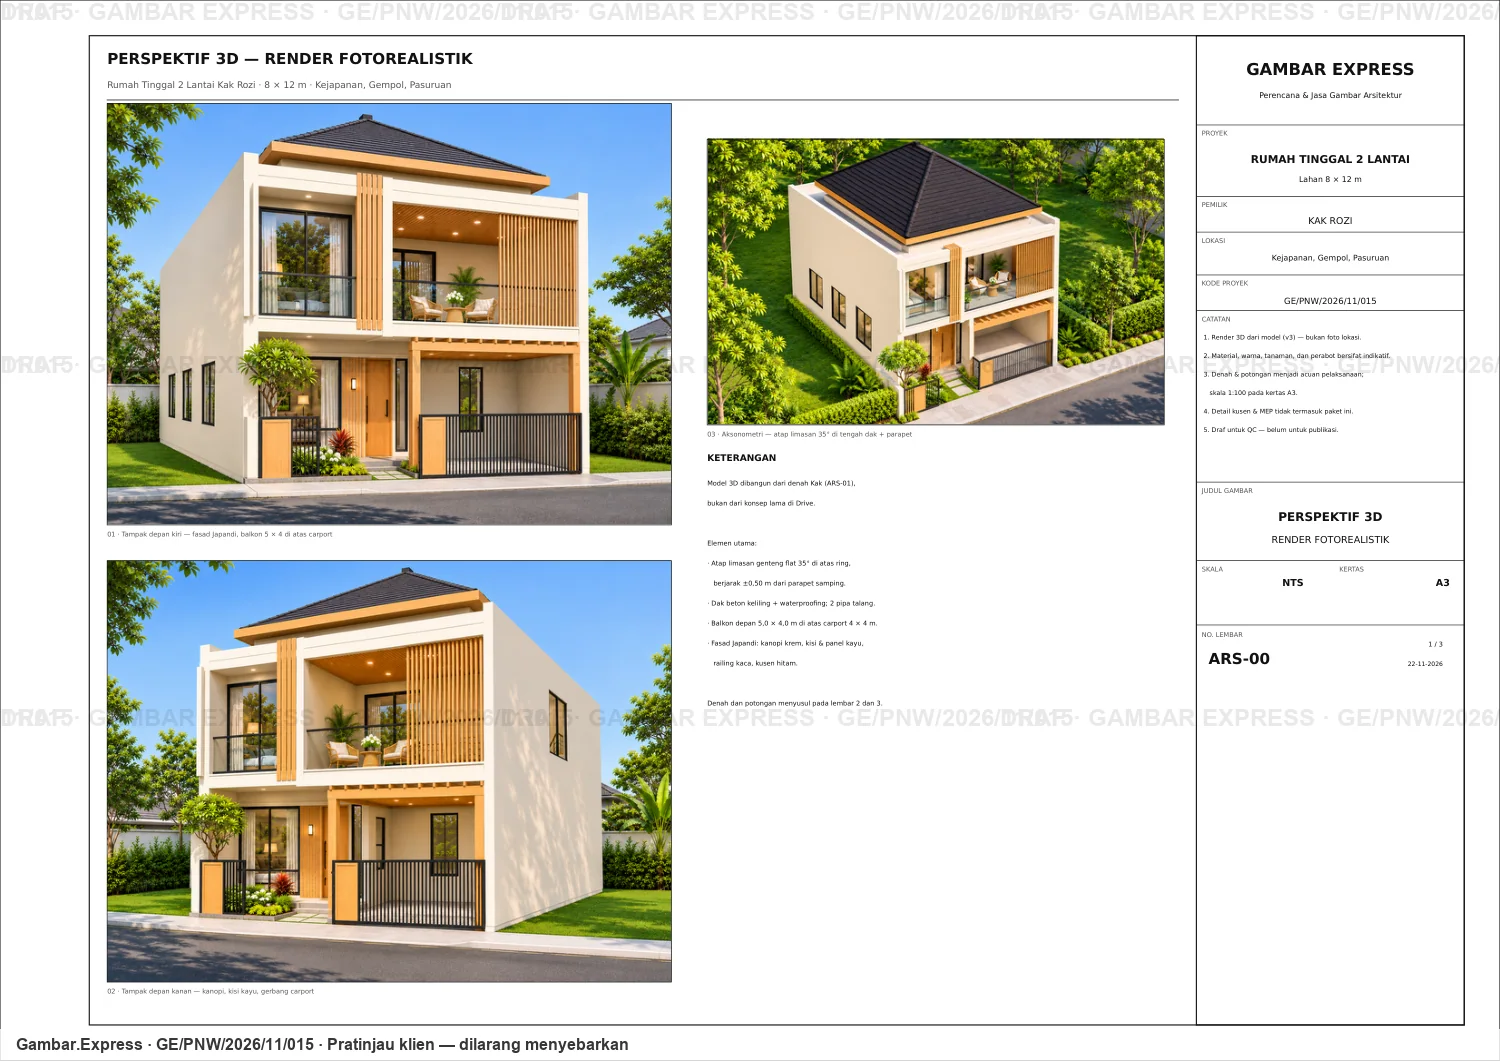
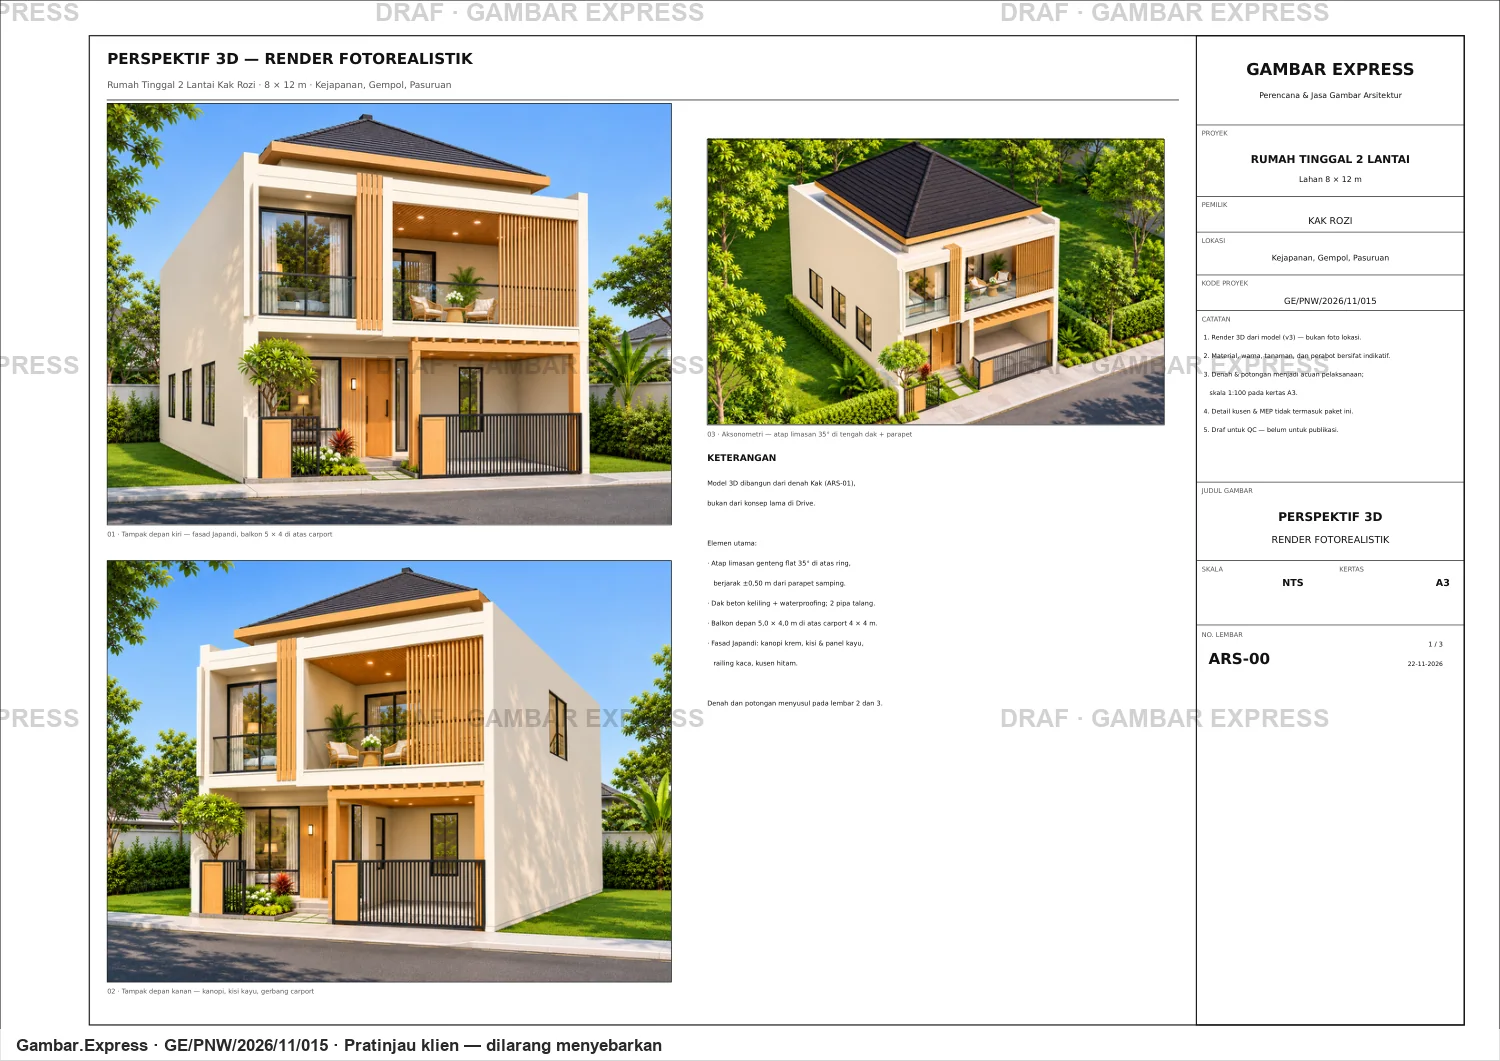
Portal Rozi: watermark diperjelas, nilai RAB disamarkan

diff --git a/kakrozi/index.html b/kakrozi/index.html
@@ -70,7 +70,7 @@
 <div id="blackout"><div><strong>Pratinjau disamarkan</strong>
 Kembali ke jendela ini untuk melanjutkan. Tangkapan layar dan pengunduhan tidak diizinkan.</div></div>
 
-<script>window.PORTAL = {"brand": "Ruang tinjau", "owner": "Kak Rozi", "project": "Rumah Rozi 8×12", "subtitle": "Rumah tinggal 2 lantai · 8 × 12 m · Kejapanan, Gempol, Pasuruan", "code": "GE/PNW/2026/11/015", "date": "23 November 2026", "status": "pratinjau klien · draf", "watermark": "DRAF · GAMBAR EXPRESS · GE/PNW/2026/11/015", "groups": [{"title": "Visual 3D", "items": [{"code": "VIS-01", "title": "Render fotorealistik — tampak depan kiri", "img": "pages/vis_01.webp", "note": "render v3", "w": 1448, "h": 1086}, {"code": "VIS-02", "title": "Render fotorealistik — tampak depan kanan", "img": "pages/vis_02.webp", "note": "render v3", "w": 1448, "h": 1086}, {"code": "VIS-03", "title": "Render fotorealistik — aksonometri", "img": "pages/vis_03.webp", "note": "render v3", "w": 1500, "h": 939}]}, {"title": "Gambar kerja", "items": [{"code": "ars-01", "title": "Perspektif 3D — render fotorealistik", "img": "pages/ars_01.webp", "note": "draf", "w": 1500, "h": 1061}, {"code": "ars-02", "title": "Denah Lantai 1 & 2", "img": "pages/ars_02.webp", "note": "draf", "w": 1500, "h": 1061}, {"code": "ars-03", "title": "Potongan A-A & B-B", "img": "pages/ars_03.webp", "note": "draf", "w": 1500, "h": 1061}]}, {"title": "RAB & kuantitas", "items": [{"code": "rab-01", "title": "Rekap RAB & catatan", "img": "pages/rab_01.webp", "note": "draf", "w": 1500, "h": 2122}]}, {"title": "Laporan", "items": [{"code": "str-01", "title": "GE-STR-RPT-01_Laporan_Struktur_Rozi_Rev1 — halaman 1", "img": "pages/str_01.webp", "note": "draf", "w": 1500, "h": 2123}, {"code": "str-02", "title": "GE-STR-RPT-01_Laporan_Struktur_Rozi_Rev1 — halaman 2", "img": "pages/str_02.webp", "note": "draf", "w": 1500, "h": 2123}, {"code": "str-03", "title": "GE-STR-RPT-01_Laporan_Struktur_Rozi_Rev1 — halaman 3", "img": "pages/str_03.webp", "note": "draf", "w": 1500, "h": 2123}, {"code": "str-04", "title": "GE-STR-RPT-01_Laporan_Struktur_Rozi_Rev1 — halaman 4", "img": "pages/str_04.webp", "note": "draf", "w": 1500, "h": 2123}, {"code": "str-05", "title": "GE-STR-RPT-01_Laporan_Struktur_Rozi_Rev1 — halaman 5", "img": "pages/str_05.webp", "note": "draf", "w": 1500, "h": 2123}, {"code": "str-06", "title": "GE-STR-RPT-01_Laporan_Struktur_Rozi_Rev1 — halaman 6", "img": "pages/str_06.webp", "note": "draf", "w": 1500, "h": 2123}, {"code": "str-07", "title": "GE-STR-RPT-01_Laporan_Struktur_Rozi_Rev1 — halaman 7", "img": "pages/str_07.webp", "note": "draf", "w": 1500, "h": 2123}, {"code": "str-08", "title": "GE-STR-RPT-01_Laporan_Struktur_Rozi_Rev1 — halaman 8", "img": "pages/str_08.webp", "note": "draf", "w": 1500, "h": 2123}, {"code": "str-09", "title": "GE-STR-RPT-01_Laporan_Struktur_Rozi_Rev1 — halaman 9", "img": "pages/str_09.webp", "note": "draf", "w": 1500, "h": 2123}, {"code": "str-10", "title": "GE-STR-RPT-01_Laporan_Struktur_Rozi_Rev1 — halaman 10", "img": "pages/str_10.webp", "note": "draf", "w": 1500, "h": 2123}, {"code": "str-11", "title": "GE-STR-RPT-01_Laporan_Struktur_Rozi_Rev1 — halaman 11", "img": "pages/str_11.webp", "note": "draf", "w": 1500, "h": 2123}, {"code": "str-12", "title": "GE-STR-RPT-01_Laporan_Struktur_Rozi_Rev1 — halaman 12", "img": "pages/str_12.webp", "note": "draf", "w": 1500, "h": 2123}]}]};</script>
+<script>window.PORTAL = {"brand": "Ruang tinjau", "owner": "Kak Rozi", "project": "Rumah Rozi 8×12", "subtitle": "Rumah tinggal 2 lantai · 8 × 12 m · Kejapanan, Gempol, Pasuruan", "code": "GE/PNW/2026/11/015", "date": "23 November 2026", "status": "pratinjau klien · draf", "watermark": "DRAF · GAMBAR EXPRESS · GE/PNW/2026/11/015", "groups": [{"title": "Visual 3D", "items": [{"code": "VIS-01", "title": "Render fotorealistik — tampak depan kiri", "img": "pages/vis_01.webp", "note": "render v3", "w": 1448, "h": 1086}, {"code": "VIS-02", "title": "Render fotorealistik — tampak depan kanan", "img": "pages/vis_02.webp", "note": "render v3", "w": 1448, "h": 1086}, {"code": "VIS-03", "title": "Render fotorealistik — aksonometri", "img": "pages/vis_03.webp", "note": "render v3", "w": 1500, "h": 939}]}, {"title": "Gambar kerja", "items": [{"code": "ars-01", "title": "Perspektif 3D — render fotorealistik", "img": "pages/ars_01.webp", "note": "draf", "w": 1500, "h": 1061}, {"code": "ars-02", "title": "Denah Lantai 1 & 2", "img": "pages/ars_02.webp", "note": "draf", "w": 1500, "h": 1061}, {"code": "ars-03", "title": "Potongan A-A & B-B", "img": "pages/ars_03.webp", "note": "draf", "w": 1500, "h": 1061}]}, {"title": "RAB & kuantitas", "items": [{"code": "rab-01", "title": "Rekap RAB & catatan", "img": "pages/rab_01.webp", "note": "nilai disamarkan", "w": 1500, "h": 2122}]}, {"title": "Laporan", "items": [{"code": "str-01", "title": "GE-STR-RPT-01_Laporan_Struktur_Rozi_Rev1 — halaman 1", "img": "pages/str_01.webp", "note": "draf", "w": 1500, "h": 2123}, {"code": "str-02", "title": "GE-STR-RPT-01_Laporan_Struktur_Rozi_Rev1 — halaman 2", "img": "pages/str_02.webp", "note": "draf", "w": 1500, "h": 2123}, {"code": "str-03", "title": "GE-STR-RPT-01_Laporan_Struktur_Rozi_Rev1 — halaman 3", "img": "pages/str_03.webp", "note": "draf", "w": 1500, "h": 2123}, {"code": "str-04", "title": "GE-STR-RPT-01_Laporan_Struktur_Rozi_Rev1 — halaman 4", "img": "pages/str_04.webp", "note": "draf", "w": 1500, "h": 2123}, {"code": "str-05", "title": "GE-STR-RPT-01_Laporan_Struktur_Rozi_Rev1 — halaman 5", "img": "pages/str_05.webp", "note": "draf", "w": 1500, "h": 2123}, {"code": "str-06", "title": "GE-STR-RPT-01_Laporan_Struktur_Rozi_Rev1 — halaman 6", "img": "pages/str_06.webp", "note": "draf", "w": 1500, "h": 2123}, {"code": "str-07", "title": "GE-STR-RPT-01_Laporan_Struktur_Rozi_Rev1 — halaman 7", "img": "pages/str_07.webp", "note": "draf", "w": 1500, "h": 2123}, {"code": "str-08", "title": "GE-STR-RPT-01_Laporan_Struktur_Rozi_Rev1 — halaman 8", "img": "pages/str_08.webp", "note": "draf", "w": 1500, "h": 2123}, {"code": "str-09", "title": "GE-STR-RPT-01_Laporan_Struktur_Rozi_Rev1 — halaman 9", "img": "pages/str_09.webp", "note": "draf", "w": 1500, "h": 2123}, {"code": "str-10", "title": "GE-STR-RPT-01_Laporan_Struktur_Rozi_Rev1 — halaman 10", "img": "pages/str_10.webp", "note": "draf", "w": 1500, "h": 2123}, {"code": "str-11", "title": "GE-STR-RPT-01_Laporan_Struktur_Rozi_Rev1 — halaman 11", "img": "pages/str_11.webp", "note": "draf", "w": 1500, "h": 2123}, {"code": "str-12", "title": "GE-STR-RPT-01_Laporan_Struktur_Rozi_Rev1 — halaman 12", "img": "pages/str_12.webp", "note": "draf", "w": 1500, "h": 2123}]}]};</script>
 <script src="assets/portal.js"></script>
 </body>
 </html>
